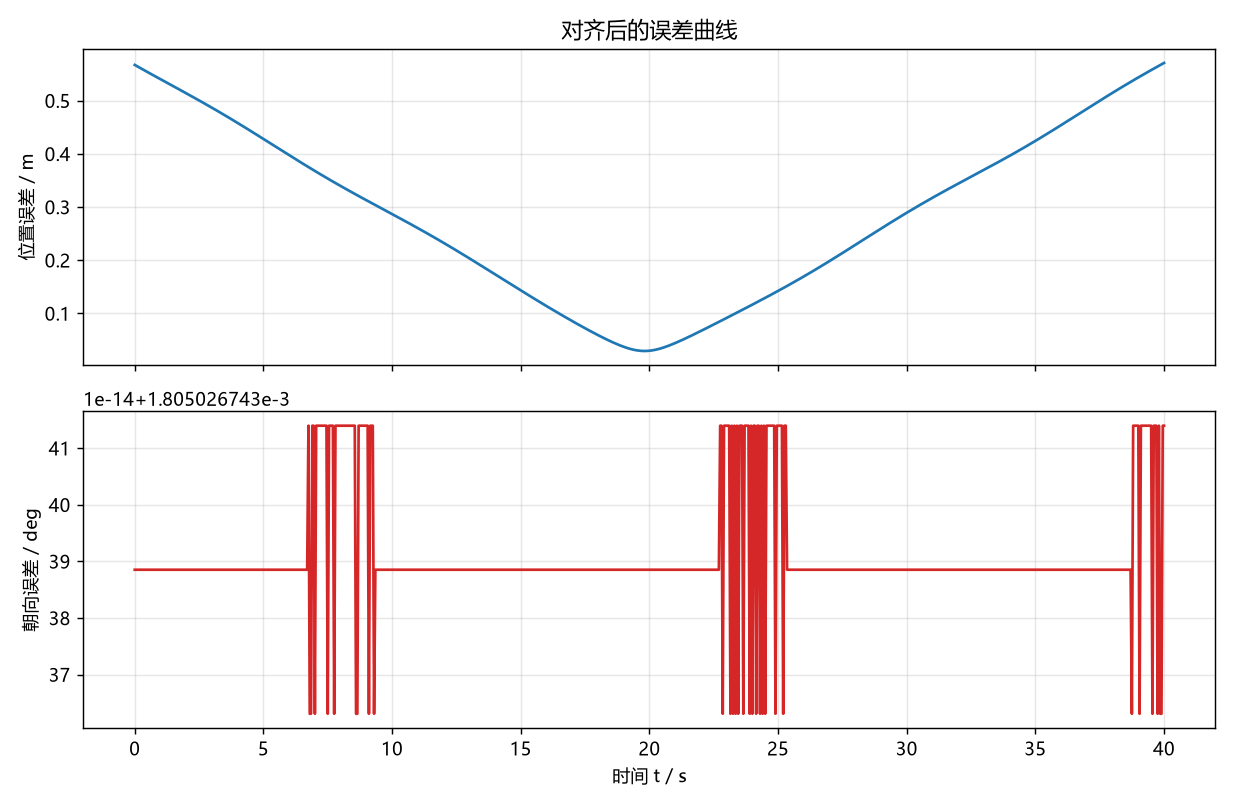
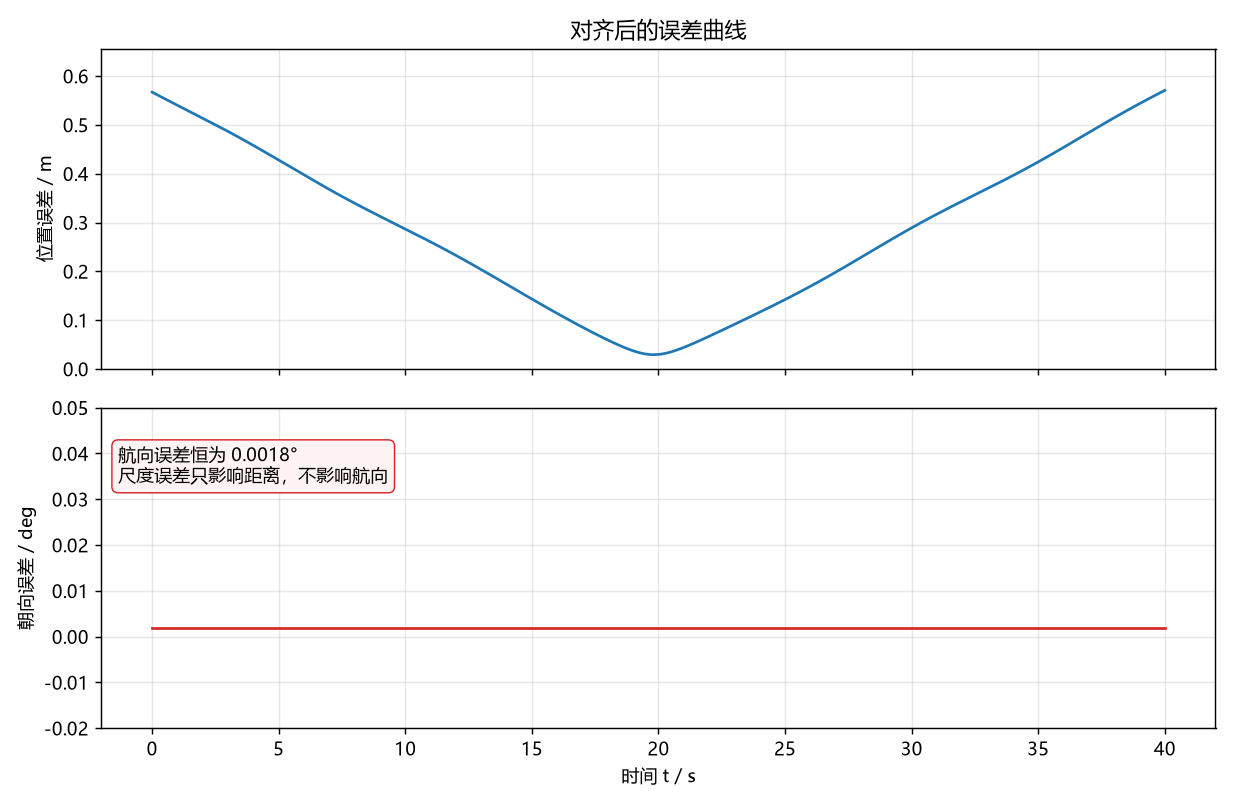
fix(viz): 误差曲线固定纵轴范围，避免浮点噪声被放大成尖峰
生成的 error.png 中航向误差出现 36°~41° 的尖峰，与数据不符。
排查：航向误差实际恒为 0.0018°（尺度误差只影响距离、不影响航向），
尖峰是 matplotlib 把 1e-14 量级的浮点噪声自动放大所致——
纵轴被压到 1e-14 量级后，刻度显示成 1e-14+1.805e-3，肉眼看到的就是剧烈波动。

- plot_error_curve 显式设定纵轴：位置误差从 0 起，航向误差在数值很小时
  固定为 [-0.02, 0.05] 并关闭偏移量记法；
- 航向误差接近 0 时在图上标注真实数值与原因，避免读者误读；
- 重新生成 trajectory.png / error.png 并同步到 docs 配图。

diff --git a/src/ground/trajectory_accuracy_eval/traj_eval/viz.py b/src/ground/trajectory_accuracy_eval/traj_eval/viz.py
@@ -89,11 +89,30 @@ def plot_error_curve(gt: Sequence[Pose], est: Sequence[Pose], output: str,
     axes[0].plot(times, err, color="#1f77b4", linewidth=1.5)
     axes[0].set_ylabel("位置误差 / m" if cjk else "position error / m")
     axes[0].set_title("对齐后的误差曲线" if cjk else "error after alignment")
+    axes[0].set_ylim(0.0, max(float(err.max()) * 1.15, 1e-3))
     axes[0].grid(alpha=0.3)
+
     axes[1].plot(times, dyaw, color="#d62728", linewidth=1.5)
     axes[1].set_ylabel("朝向误差 / deg" if cjk else "yaw error / deg")
     axes[1].set_xlabel("时间 t / s" if cjk else "time t / s")
     axes[1].grid(alpha=0.3)
+    # 航向误差通常只有 1e-3 度量级（尺度误差只改变距离、不改变朝向）。
+    # 不固定纵轴范围的话，matplotlib 会把 1e-14 的浮点噪声放大成"尖峰"，
+    # 图上看起来像有几十度的误差，与真实数据完全不符——这里显式设定可读范围。
+    yaw_max = float(dyaw.max())
+    if yaw_max < 0.05:
+        axes[1].set_ylim(-0.02, 0.05)
+        axes[1].ticklabel_format(axis="y", style="plain", useOffset=False)
+        axes[1].text(0.015, 0.88,
+                     (f"航向误差恒为 {yaw_max:.4f}°\n尺度误差只影响距离，不影响航向"
+                      if cjk else
+                      f"yaw error is constant {yaw_max:.4f} deg\n"
+                      "scale error affects distance only"),
+                     transform=axes[1].transAxes, fontsize=10, va="top",
+                     bbox=dict(boxstyle="round,pad=0.35", fc="#fff3f3", ec="#d62728", lw=0.8))
+    else:
+        axes[1].set_ylim(0.0, yaw_max * 1.15)
+
     fig.tight_layout()
     os.makedirs(os.path.dirname(os.path.abspath(output)) or ".", exist_ok=True)
     fig.savefig(output, dpi=130)

diff --git a/docs/ground/trajectory_accuracy_eval.md b/docs/ground/trajectory_accuracy_eval.md
@@ -115,7 +115,9 @@ RPE(delta=50) 平移  : RMSE 0.0756 m
 ![对齐后的位置误差与朝向误差曲线](../img/ground/trajectory_accuracy_eval/error.png)
 
 *图 2　对齐后的误差曲线。上图是位置误差（随时间增长，说明误差在累积而非随机抖动），
-下图是朝向误差（恒为 0，因为尺度误差只影响距离、不影响航向）。*
+下图是朝向误差：**恒为 0.0018°**，因为轮半径尺度误差只影响行驶距离、不影响航向。
+注：这一项数值只有 1e-3 度量级，若不固定纵轴范围，绘图库会把 1e-14 的浮点噪声
+放大成"尖峰"，看起来像几十度的误差——因此在绘图代码里显式设定了可读的纵轴范围。*
 
 在 Ubuntu 20.04 + ROS Noetic 的虚拟机上从零部署（下载、解压、直接运行）的实际过程：
 
